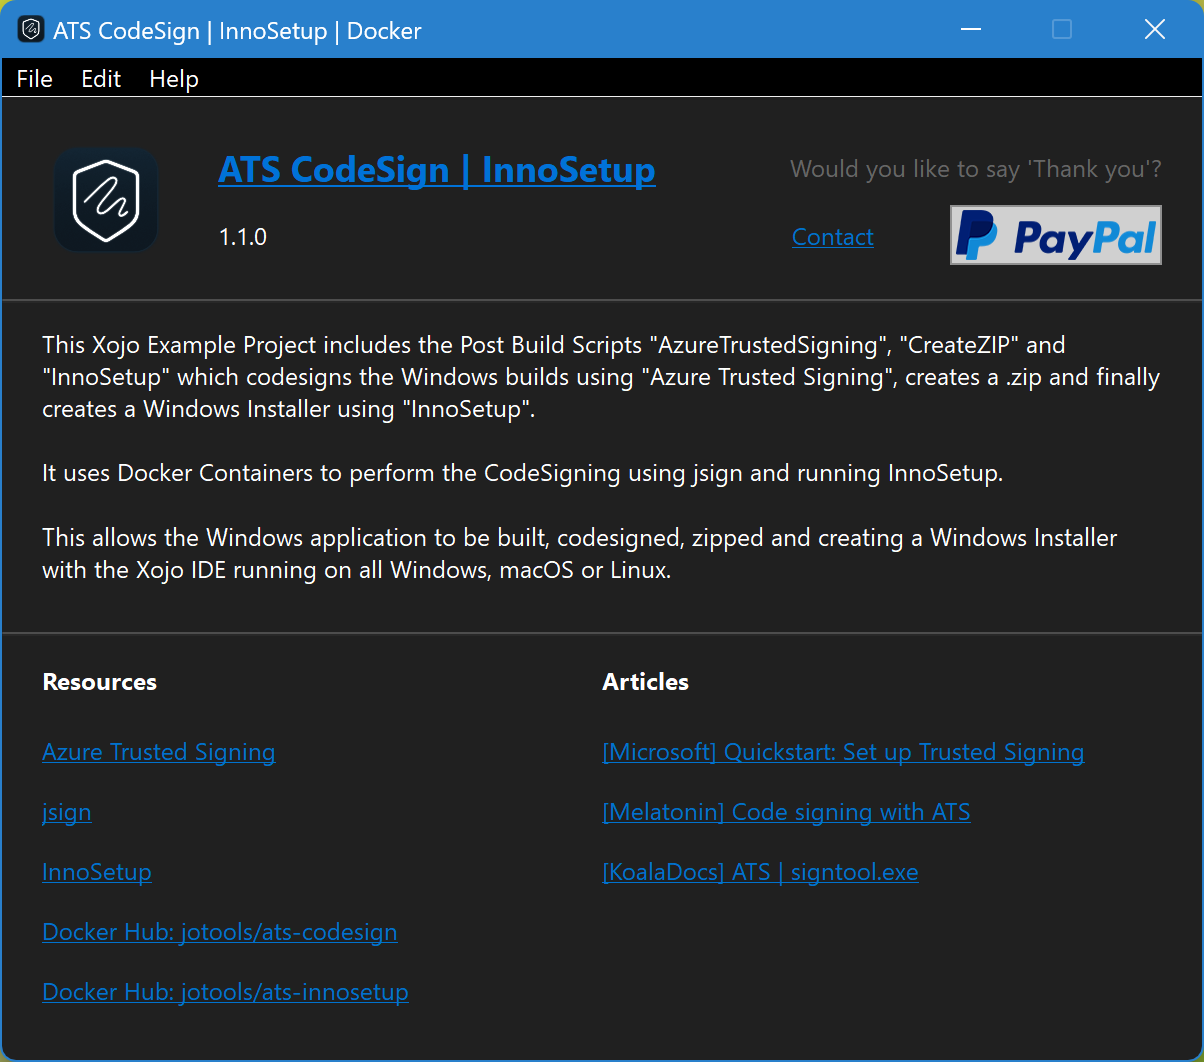
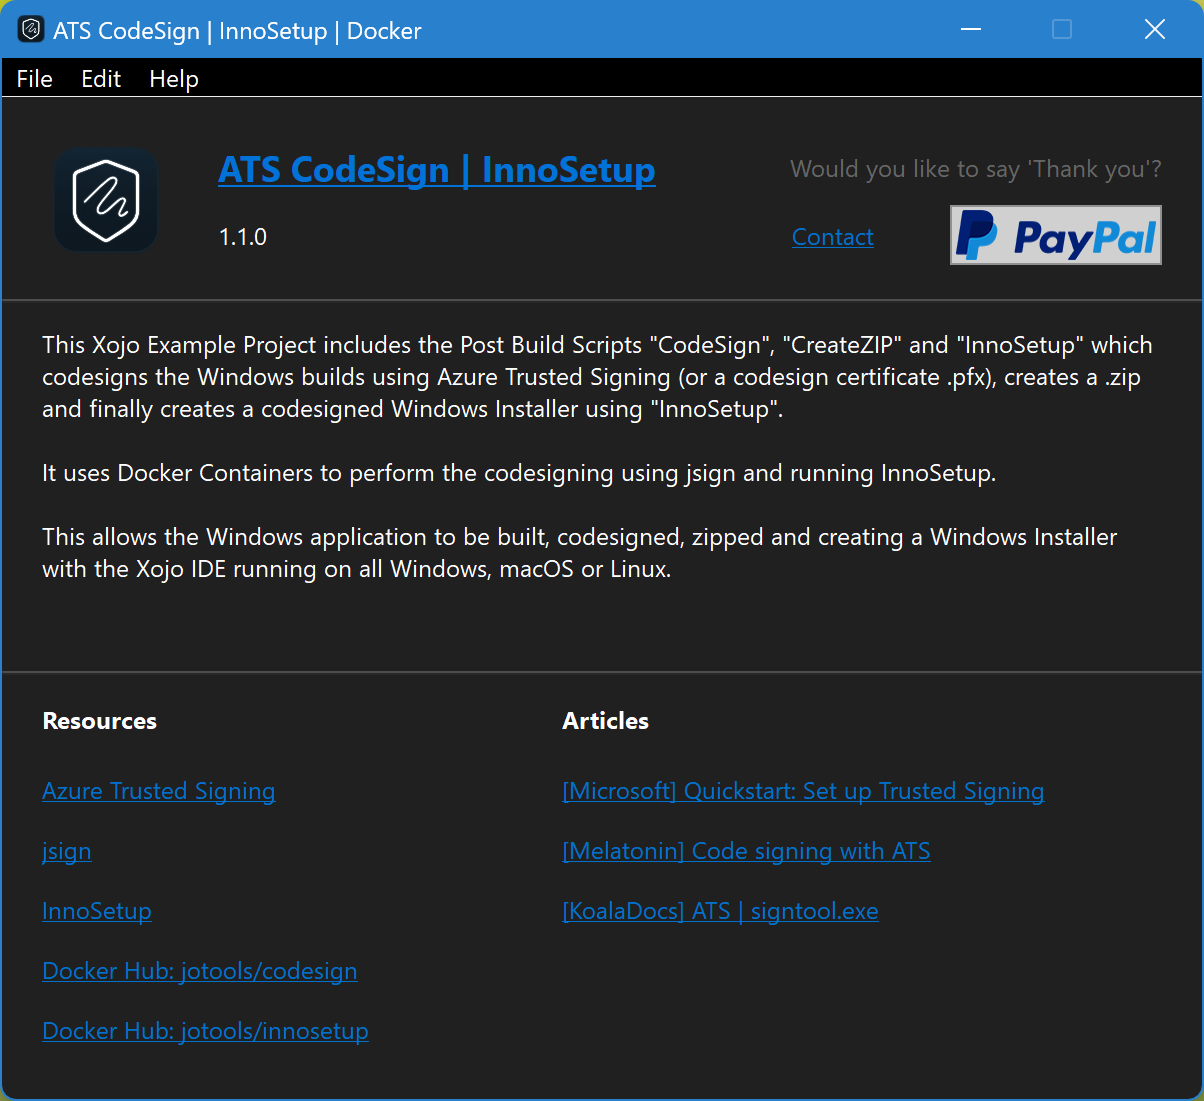
Update ReadMe

diff --git a/README.md b/README.md
@@ -47,7 +47,7 @@ Please refer to the [Documentation](./dockerimage/innosetup/) for the provided [
 
 ## Xojo Example Project
 
-This repository includes a Xojo Example Project `ATS CodeSign Docker.xojo_project` which uses
+This repository includes a Xojo Example Project `ATS CodeSign InnoSetup.xojo_project` which uses
 - a Post Build Script `CodeSign` to codesign the Windows builds using [Azure Trusted Signing](https://azure.microsoft.com/en-us/products/trusted-signing) *(or a codesign certificate `.pfx`)*
   - using the Docker Container ([jotools/codesign](https://hub.docker.com/r/jotools/codesign)) to perform the codesigning using [jsign](https://github.com/ebourg/jsign)
 - a Post Build Script `CreateZIP` to package the built and codesigned application in a `.zip`
@@ -72,14 +72,14 @@ Codesigned Windows Installer *(Created and codesigned with Xojo IDE running on m
 ### Requirements
 [Xojo](https://www.xojo.com/) is a rapid application development for Desktop, Web, Mobile & Raspberry Pi.  
 
-The Desktop application Xojo example project `ATS CodeSign Docker.xojo_project` and its Post Build Scripts are using:
+The Desktop application Xojo example project `ATS CodeSign InnoSetup.xojo_project` and its Post Build Scripts are using:
 - Xojo 2024r4.2
 - API 2
 
 ### How to use in your own Xojo project?
 
 #### CodeSign (Azure Trusted Signing | PFX)
-1. Create a Post Build Script in your project and copy-and-paste the example Post Build Script `CodeSign` provided in `ATS CodeSign Docker.xojo_project`
+1. Create a Post Build Script in your project and copy-and-paste the example Post Build Script `CodeSign` provided in `ATS CodeSign InnoSetup.xojo_project`
 2. Make sure this Post Build Script runs after the Step 'Windows: Build'
 3. Read the comments in the provided Post Build Script, modify it according to your needs  
    The default settings are:
@@ -93,7 +93,7 @@ The Desktop application Xojo example project `ATS CodeSign Docker.xojo_project` 
 
 #### CreateZIP
 
-1. Create a Post Build Script in your project and copy-and-paste the example Post Build Script `CreateZIP` provided in `ATS CodeSign Docker.xojo_project`
+1. Create a Post Build Script in your project and copy-and-paste the example Post Build Script `CreateZIP` provided in `ATS CodeSign InnoSetup.xojo_project`
 2. Make sure this Post Build Script runs after the Step 'Windows: Build' *(and after `AzureTrustedSigning` to ensure you zip the codesigned application)*
 3. Read the comments in the provided Post Build Script, modify it according to your needs
 
@@ -104,7 +104,7 @@ The Desktop application Xojo example project `ATS CodeSign Docker.xojo_project` 
      - *it's prepared for all Windows Build Targets (WIN32, WIN64, ARM64)*
      - *it uses parameters so that it can be configured from within the Post Build Script*
    - *or use your own InnoSetup script*
-2. Create a Post Build Script in your project and copy-and-paste the example Post Build Script `InnoSetup` provided in `ATS CodeSign Docker.xojo_project`
+2. Create a Post Build Script in your project and copy-and-paste the example Post Build Script `InnoSetup` provided in `ATS CodeSign InnoSetup.xojo_project`
 3. Make sure this Post Build Script runs after the Step 'Windows: Build' *(and after `CodeSign` to ensure you include the codesigned application in the windows installer)*
 4. Read the comments in the provided Post Build Script, modify it according to your needs *(e.g. change the value of `sAPP_PUBLISHER_URL` to your own website)*  
    The example Post Build Script is designed to be quite generic and using the provided universal innosetup script will:
